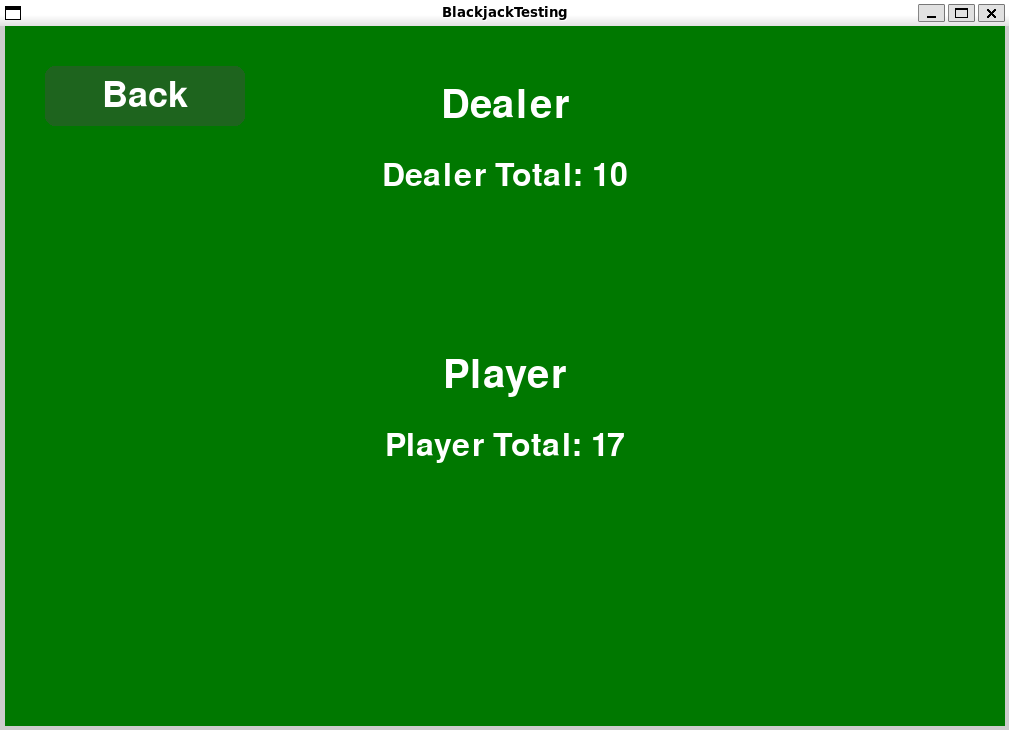
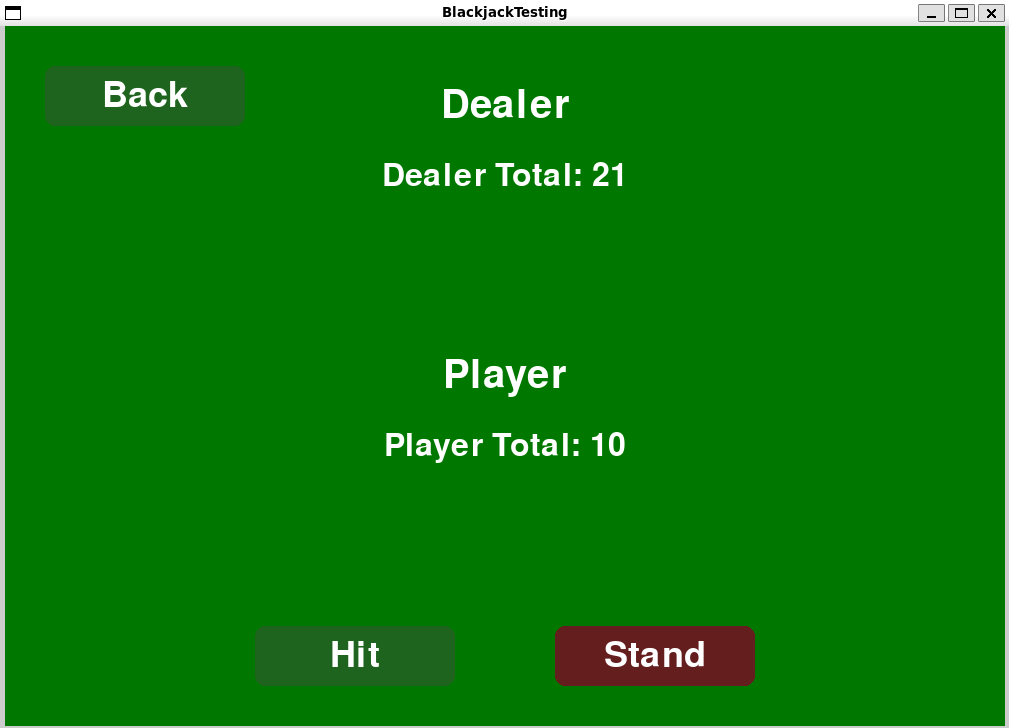
Update to visuals
Included buttons for hit and stand non functional. Removed print to terminals in CardFuncitions. New screenshot.

diff --git a/Blackjack.py b/Blackjack.py
@@ -38,7 +38,7 @@ def draw_button(surface, text, rect, base_color, events=None):
                 if rect.collidepoint(e.pos):
                     clicked = True
 
-    # button color stays fixed
+    # Button color stays fixed
     pygame.draw.rect(surface, base_color, rect, border_radius=10)
     draw_text(surface, text, rect.centerx, rect.centery, 36, center=True)
     return clicked
@@ -63,7 +63,7 @@ while running:
         if event.type == pygame.QUIT:
             running = False
 
-    # draw background
+    # Draw background
     screen.fill(GREEN_LIGHT)
 
     # ─────────────── MENU SCREEN ───────────────
@@ -79,7 +79,7 @@ while running:
         if draw_button(screen, "Rules", rules_button, (100,30,30), events):
             state = "rules"
 
-     # ───────────── LOADING ─────────────
+    # ───────────── LOADING ─────────────
     elif state == "loading":
         draw_text(screen, "Shuffling cards...", 0, height//2, 60, GOLD, screen_center=True)
         pygame.display.flip()
@@ -96,23 +96,32 @@ while running:
     
     # ───────────── PLAY ─────────────
     elif state == "play":
-         # initialize game hands only once
+         # Initialize game hands only once
         if not game_started:
             CardFunctions.starting_hands()
             game_started = True
 
-        # draw labels
+        # Draw labels
         draw_text(screen, "Dealer", 0, 80, 40, WHITE, screen_center=True)
         draw_text(screen, "Player", 0, 350, 40, WHITE, screen_center=True)
 
-        # display totals
+        # Display totals
         dealer_total = CardFunctions.Total(CardFunctions.dealerHand)
         player_total = CardFunctions.Total(CardFunctions.playerHand)
-
         draw_text(screen, f"Dealer Total: {dealer_total}", 0, 150, 32, WHITE, screen_center=True)
         draw_text(screen, f"Player Total: {player_total}", 0, 420, 32, WHITE, screen_center=True)
 
-        # temporary buttons
+        hit_button = pygame.Rect(width // 2 - 250, 600, 200, 60)
+        stand_button = pygame.Rect(width // 2 + 50, 600, 200, 60)
+
+        # Play buttons
+        if draw_button(screen, "Hit", hit_button, (30, 100, 30), events):
+            print("Hit clicked!")
+
+        if draw_button(screen, "Stand", stand_button, (100, 30, 30), events):
+            print("Stand clicked!")
+
+
         back_button = pygame.Rect(40, 40, 200, 60)
         if draw_button(screen, "Back", back_button, (30, 100, 30), events):
             state = "menu"

diff --git a/CardFunctions.py b/CardFunctions.py
@@ -9,7 +9,6 @@ dealerHand = []
 # Deal hands
 def DealCard(Turn):
     if not Deck:
-        print("Deck is empty! Reshuffling...")
         cardShuffle()
     card = random.choice(Deck)
     Turn.append(card)
@@ -22,7 +21,6 @@ def cardShuffle():
     DeckSize = 4
     Deck = originalDeck * DeckSize
     random.shuffle(Deck)
-    print("Shuffling...")
 
 # Clear hands to start again
 def playAgain():
@@ -55,8 +53,6 @@ def starting_hands():
     for _ in range(2):
         DealCard(playerHand)
         DealCard(dealerHand)
-    print(f"Dealer has {revealDealerHand()} and X")
-    print(f"You have {playerHand} with total of {Total(playerHand)}\n")
 
 # Reveal Dealer hand
 def revealDealerHand():
